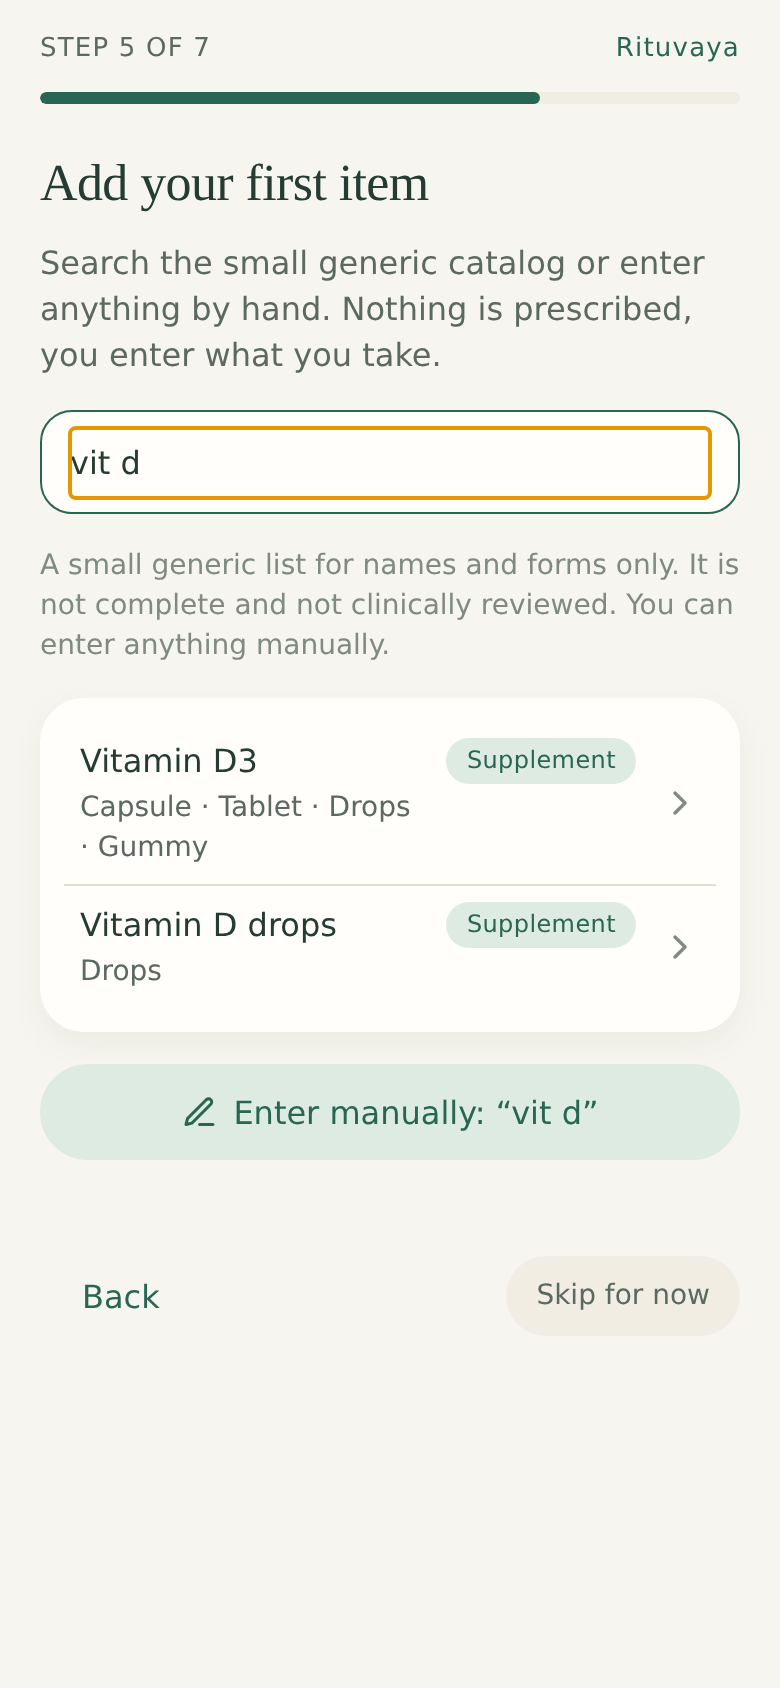
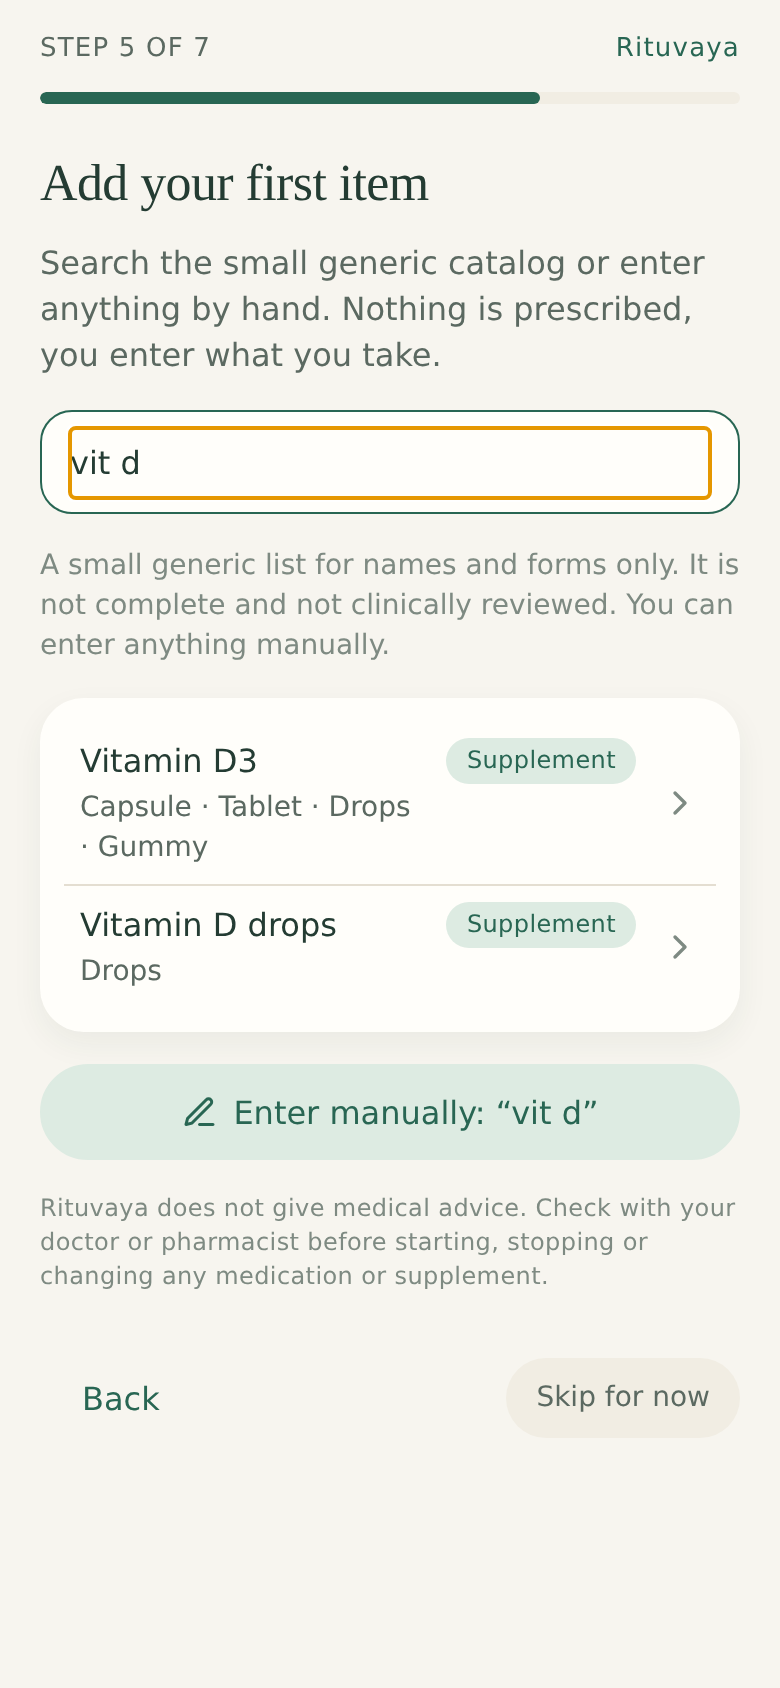
Prepare the app for App Store submission
Privacy manifest: the app target declared no required-reason APIs, and
App Store Connect refuses uploads that use them undeclared. The native
modules ship their own manifests, but React Native's own template
declares three at app level; declare the same through
ios.privacyManifests (UserDefaults CA92.1, file timestamps C617.1,
system boot time 35F9.1), with no tracking and no collected data —
true, since nothing leaves the device. Verified by running prebuild:
PrivacyInfo.xcprivacy is generated and wired into the target.

Medical disclaimer: guideline 1.4.1 asks health apps to remind people to
check with a doctor. The app never prescribed, but never said that
either. Add it in all five languages, shown where the first item is
added during onboarding and in Settings > About. The About text drops
its own "no medical advice" clause so the two don't repeat.

Remove text a reviewer would read as unfinished: the "planned for later"
feature list (features that don't exist are a 2.1 rejection) and the
developer note that translations need review, which non-English users
also saw under the catalog search. Both stay in the README.

Version 1.0.0, build 1. The About card showed 0.1.0 through a hardcoded
fallback; it now shows the version from the build or nothing.

Also restores the apostrophes missing from the French reminder-style
text added earlier.

98 tests pass, tsc clean, walkthrough green with 0 console errors; it
now asserts the disclaimer is on both screens.
[…]

diff --git a/rituvaya/src/i18n/translations/fr.ts b/rituvaya/src/i18n/translations/fr.ts
@@ -4,6 +4,7 @@ export const fr: Translation = {
   app: {
     name: 'Rituvaya',
     tagline: 'Un espace calme pour ce que vous prenez et buvez.',
+    medicalDisclaimer: 'Rituvaya ne donne pas de conseil médical. Demandez l’avis de votre médecin ou de votre pharmacien avant de commencer, d’arrêter ou de modifier un médicament ou un complément.',
   },
   common: {
     next: 'Suivant',
@@ -565,7 +566,7 @@ export const fr: Translation = {
     repeatInterval: 'Minutes entre les rappels',
     reminderMode: 'Style de rappel',
     reminderModes: { standard: 'Standard', insistent: 'Insistant' },
-    reminderModeHints: { standard: 'L alerte à l heure prévue, plus les répétitions réglées ci-dessus.', insistent: 'Une alerte toutes les 2 minutes, jusqu à 10 fois, jusqu à ce que vous marquiez la prise ou l oubli. Comme toute notification, elle reste silencieuse quand le bouton de sonnerie est coupé : ce n est donc pas une alarme.' },
+    reminderModeHints: { standard: 'L’alerte à l’heure prévue, plus les répétitions réglées ci-dessus.', insistent: 'Une alerte toutes les 2 minutes, jusqu’à 10 fois, jusqu’à ce que vous marquiez la dose comme prise ou passée. Comme toute notification, elle reste silencieuse quand le bouton de sonnerie est coupé : ce n’est donc pas une alarme.' },
     snooze: 'Durée du report',
     remindTonight: 'Heure du rappel du soir',
     quietHours: 'Heures calmes',
@@ -604,11 +605,9 @@ export const fr: Translation = {
     demoLoaded: 'Données de démo ajoutées',
     demoRemoved: 'Données de démo retirées',
     about: 'À propos de Rituvaya',
-    aboutBody: 'Rituvaya enregistre les compléments, médicaments et l’eau que vous saisissez et vous rappelle aux heures que vous choisissez. Elle ne donne aucun conseil médical ni de dosage.',
+    aboutBody: 'Rituvaya enregistre les compléments, médicaments et l’eau que vous saisissez et vous rappelle aux heures que vous choisissez.',
     version: 'Version {version}',
-    translationNote: 'Les traductions ont été générées et doivent encore être relues par des locuteurs natifs.',
     restartForLayout: 'Redémarrez l’app pour appliquer le nouveau sens de lecture.',
-    roadmap: 'Prévu plus tard : connexion, sauvegarde cloud, profils familiaux, widgets, apps montre et intégrations santé.',
   },
   notifications: {
     status: {

diff --git a/rituvaya/app/onboarding.tsx b/rituvaya/app/onboarding.tsx
@@ -179,22 +179,31 @@ export default function OnboardingScreen() {
         ) : null}
 
         {stepIndex === 4 ? (
-          settings.onboarding.draft.firstItemId ? (
-            <Card style={{ gap: theme.spacing.sm }}>
-              <Text variant="bodyStrong">{t('item.created')}</Text>
-              <Text variant="small" color="secondary">
-                {t('onboarding.firstItem.skipHint')}
+          <>
+            {settings.onboarding.draft.firstItemId ? (
+              <Card style={{ gap: theme.spacing.sm }}>
+                <Text variant="bodyStrong">{t('item.created')}</Text>
+                <Text variant="small" color="secondary">
+                  {t('onboarding.firstItem.skipHint')}
+                </Text>
+              </Card>
+            ) : (
+              <AddItemFlow
+                onStepChange={setItemStep}
+                onDone={(itemId) => {
+                  void store.updateSettings((s) => ({ ...s, onboarding: { ...s.onboarding, draft: { ...s.onboarding.draft, firstItemId: itemId } } }));
+                  persistStep(5);
+                }}
+              />
+            )}
+            {/* Shown where people first enter what they take, not repeated in every form step
+                (App Store guideline 1.4.1). Also in Settings › About. */}
+            {itemStep === 'search' || settings.onboarding.draft.firstItemId ? (
+              <Text variant="caption" color="muted" testID="medical-disclaimer">
+                {t('app.medicalDisclaimer')}
               </Text>
-            </Card>
-          ) : (
-            <AddItemFlow
-              onStepChange={setItemStep}
-              onDone={(itemId) => {
-                void store.updateSettings((s) => ({ ...s, onboarding: { ...s.onboarding, draft: { ...s.onboarding.draft, firstItemId: itemId } } }));
-                persistStep(5);
-              }}
-            />
-          )
+            ) : null}
+          </>
         ) : null}
 
         {stepIndex === 5 ? (

diff --git a/rituvaya/app/(tabs)/settings.tsx b/rituvaya/app/(tabs)/settings.tsx
@@ -36,7 +36,9 @@ export default function SettingsScreen() {
   const { settings } = snapshot;
   const [picker, setPicker] = useState<Picker>(null);
   const [nameDraft, setNameDraft] = useState(settings.preferredName);
-  const version = Constants.expoConfig?.version ?? '0.1.0';
+  // Embedded at build time on devices; the web preview may not have it, and a
+  // guessed fallback would show a wrong version, so the line is hidden instead.
+  const version = Constants.expoConfig?.version ?? null;
 
   const setLanguage = async (code: Language) => {
     await store.updateSettings((s) => ({ ...s, language: code }));
@@ -97,15 +99,15 @@ export default function SettingsScreen() {
         <Text variant="small" color="secondary">
           {t('settings.aboutBody')}
         </Text>
-        <Text variant="small" color="secondary">
-          {t('settings.roadmap')}
+        {/* App Store guideline 1.4.1: health apps should tell people to check with a doctor. */}
+        <Text variant="smallStrong" color="secondary" testID="medical-disclaimer">
+          {t('app.medicalDisclaimer')}
         </Text>
-        <Text variant="caption" color="muted">
-          {t('settings.translationNote')}
-        </Text>
-        <Text variant="caption" color="muted">
-          {t('settings.version', { version })}
-        </Text>
+        {version ? (
+          <Text variant="caption" color="muted">
+            {t('settings.version', { version })}
+          </Text>
+        ) : null}
       </Card>
 
       <Sheet visible={picker === 'language'} onClose={() => setPicker(null)} title={t('settings.language')} scroll={false}>

diff --git a/rituvaya/src/i18n/translations/ar.ts b/rituvaya/src/i18n/translations/ar.ts
@@ -4,6 +4,7 @@ export const ar: Translation = {
   app: {
     name: 'ريتوفايا',
     tagline: 'مكان هادئ لما تتناوله وتشربه.',
+    medicalDisclaimer: 'لا يقدّم ريتوفايا نصائح طبية. استشر طبيبك أو الصيدلي قبل البدء بأي دواء أو مكمّل غذائي أو إيقافه أو تغييره.',
   },
   common: {
     next: 'التالي',
@@ -604,11 +605,9 @@ export const ar: Translation = {
     demoLoaded: 'أُضيفت البيانات التجريبية',
     demoRemoved: 'أُزيلت البيانات التجريبية',
     about: 'حول ريتوفايا',
-    aboutBody: 'يسجّل ريتوفايا المكمّلات والأدوية والماء التي تدخلها ويذكّرك في الأوقات التي تختارها. لا يقدّم نصائح طبية أو جرعات.',
+    aboutBody: 'يسجّل ريتوفايا المكمّلات والأدوية والماء التي تدخلها ويذكّرك في الأوقات التي تختارها.',
     version: 'الإصدار {version}',
-    translationNote: 'الترجمات مولَّدة آليًا وما زالت بحاجة إلى مراجعة متحدثين أصليين.',
     restartForLayout: 'أعد تشغيل التطبيق لتطبيق اتجاه العرض الجديد.',
-    roadmap: 'مخطط لاحقًا: تسجيل الدخول، النسخ الاحتياطي السحابي، ملفات العائلة، الأدوات المصغرة، تطبيقات الساعة، وتكاملات الصحة.',
   },
   notifications: {
     status: {

diff --git a/rituvaya/src/i18n/translations/de.ts b/rituvaya/src/i18n/translations/de.ts
@@ -4,6 +4,7 @@ export const de: Translation = {
   app: {
     name: 'Rituvaya',
     tagline: 'Ein ruhiger Ort für das, was du einnimmst und trinkst.',
+    medicalDisclaimer: 'Rituvaya gibt keinen medizinischen Rat. Sprich mit deiner Ärztin, deinem Arzt oder deiner Apotheke, bevor du ein Medikament oder Nahrungsergänzungsmittel beginnst, absetzt oder änderst.',
   },
   common: {
     next: 'Weiter',
@@ -604,11 +605,9 @@ export const de: Translation = {
     demoLoaded: 'Demodaten hinzugefügt',
     demoRemoved: 'Demodaten entfernt',
     about: 'Über Rituvaya',
-    aboutBody: 'Rituvaya erfasst die Nahrungsergänzungen, Medikamente und das Wasser, die du einträgst, und erinnert dich zu den von dir gewählten Zeiten. Es gibt keine medizinische oder Dosierungsberatung.',
+    aboutBody: 'Rituvaya erfasst die Nahrungsergänzungen, Medikamente und das Wasser, die du einträgst, und erinnert dich zu den von dir gewählten Zeiten.',
     version: 'Version {version}',
-    translationNote: 'Die Übersetzungen wurden generiert und müssen noch von Muttersprachlern geprüft werden.',
     restartForLayout: 'Starte die App neu, um die neue Leserichtung zu übernehmen.',
-    roadmap: 'Für später geplant: Anmeldung, Cloud-Sicherung, Familienprofile, Widgets, Uhren-Apps und Gesundheitsintegrationen.',
   },
   notifications: {
     status: {

diff --git a/rituvaya/src/i18n/translations/es.ts b/rituvaya/src/i18n/translations/es.ts
@@ -4,6 +4,7 @@ export const es: Translation = {
   app: {
     name: 'Rituvaya',
     tagline: 'Un lugar tranquilo para lo que tomas y bebes.',
+    medicalDisclaimer: 'Rituvaya no ofrece consejo médico. Consulta a tu médico o farmacéutico antes de empezar, dejar o cambiar cualquier medicamento o suplemento.',
   },
   common: {
     next: 'Siguiente',
@@ -604,11 +605,9 @@ export const es: Translation = {
     demoLoaded: 'Datos de demostración añadidos',
     demoRemoved: 'Datos de demostración eliminados',
     about: 'Acerca de Rituvaya',
-    aboutBody: 'Rituvaya registra los suplementos, medicamentos y agua que introduces y te avisa a las horas que eliges. No ofrece consejo médico ni de dosificación.',
+    aboutBody: 'Rituvaya registra los suplementos, medicamentos y agua que introduces y te avisa a las horas que eliges.',
     version: 'Versión {version}',
-    translationNote: 'Las traducciones se generaron automáticamente y aún necesitan revisión de hablantes nativos.',
     restartForLayout: 'Reinicia la app para aplicar la nueva dirección del diseño.',
-    roadmap: 'Previsto para más adelante: inicio de sesión, copia en la nube, perfiles familiares, widgets, apps de reloj e integraciones de salud.',
   },
   notifications: {
     status: {

diff --git a/rituvaya/src/i18n/translations/en.ts b/rituvaya/src/i18n/translations/en.ts
@@ -6,6 +6,7 @@ export const en = {
   app: {
     name: 'Rituvaya',
     tagline: 'A calm place for what you take and drink.',
+    medicalDisclaimer: 'Rituvaya does not give medical advice. Check with your doctor or pharmacist before starting, stopping or changing any medication or supplement.',
   },
   common: {
     next: 'Next',
@@ -606,11 +607,9 @@ export const en = {
     demoLoaded: 'Demo data added',
     demoRemoved: 'Demo data removed',
     about: 'About Rituvaya',
-    aboutBody: 'Rituvaya records the supplements, medications and water you enter, and reminds you at the times you choose. It does not give medical or dosing advice.',
+    aboutBody: 'Rituvaya records the supplements, medications and water you enter, and reminds you at the times you choose.',
     version: 'Version {version}',
-    translationNote: 'Translations were generated and still need native-speaker review.',
     restartForLayout: 'Restart the app to apply the new layout direction.',
-    roadmap: 'Planned for later: sign-in, cloud backup, family profiles, widgets, watch apps and health integrations.',
   },
   notifications: {
     status: {

diff --git a/rituvaya/scripts/screenshots.js b/rituvaya/scripts/screenshots.js
@@ -93,6 +93,10 @@ async function main() {
   await click('Next');
   await page.getByPlaceholder('e.g. Vitamin D, Magnesium').fill('vit d');
   await shot('05-onboarding-catalog');
+  // App Store guideline 1.4.1: the doctor reminder has to be where people enter what they take.
+  if (!(await page.getByTestId('medical-disclaimer').first().isVisible().catch(() => false))) {
+    errors.push('onboarding: medical disclaimer missing on the first-item step');
+  }
   await click('Vitamin D3');
   await shot('06-onboarding-item-details');
   await click('Next');
@@ -109,6 +113,10 @@ async function main() {
   // Load demo data for richer screens.
   await click('Settings');
   await shot('12-settings');
+  const disclaimer = page.getByTestId('medical-disclaimer').first();
+  await disclaimer.scrollIntoViewIfNeeded().catch(() => undefined);
+  if (!(await disclaimer.isVisible().catch(() => false))) errors.push('settings: medical disclaimer missing from About');
+  await shot('12b-settings-about');
   await click('Export my data');
   await click('Load demo data');
   await page.waitForTimeout(1500);

diff --git a/rituvaya/src/features/item/CatalogSearch.tsx b/rituvaya/src/features/item/CatalogSearch.tsx
@@ -19,7 +19,7 @@ export interface CatalogSearchProps {
 /** Search the small generic catalog, or continue with a manual entry using the typed name. */
 export function CatalogSearch({ onPick, onManual }: CatalogSearchProps) {
   const theme = useTheme();
-  const { t, language } = useI18n();
+  const { t } = useI18n();
   const [query, setQuery] = useState('');
   const results = useMemo(() => searchCatalog(query, 8), [query]);
   return (
@@ -48,9 +48,6 @@ export function CatalogSearch({ onPick, onManual }: CatalogSearchProps) {
         </Card>
       ) : null}
       <Button label={query.trim() ? `${t('item.manualEntry')}: “${query.trim()}”` : t('item.manualEntry')} variant="secondary" icon="edit-3" onPress={() => onManual(query)} full />
-      <Text variant="caption" color="muted" style={{ opacity: 0.8 }}>
-        {language === 'en' ? '' : t('settings.translationNote')}
-      </Text>
     </View>
   );
 }

diff --git a/rituvaya/README.md b/rituvaya/README.md
@@ -94,7 +94,10 @@ Upload the `dist/` folder to any static host (Netlify drop, Vercel, GitHub Pages
 
 ## Signing and identifiers
 
-- Bundle identifier / package: `com.rituvaya.app` (change in `app.json` before store submission).
+- Bundle identifier / package: `com.rituvaya.app` (change in `app.json` before store submission — it can never change once the app is published).
+- **Version and build number.** `expo.version` is the public version (1.0.0); `ios.buildNumber` must go up by one for **every** upload to App Store Connect, including TestFlight-only builds, or the upload is rejected. Settings › About reads the version from the build, so it can't drift from what's shipped.
+- **Privacy manifest.** `ios.privacyManifests` in `app.json` declares the required-reason APIs React Native uses (UserDefaults `CA92.1`, file timestamps `C617.1`, system boot time `35F9.1`), no tracking and no collected data; prebuild writes it to `PrivacyInfo.xcprivacy`. "No collected data" is true only while nothing leaves the device — adding analytics, crash reporting or sync means updating this *and* the App Privacy answers in App Store Connect.
+- **Medical disclaimer.** App Store guideline 1.4.1 asks health apps to remind people to check with a doctor. `app.medicalDisclaimer` is shown on the onboarding step where the first item is added and in Settings › About. Keep it in both places.
 - The app uses local notifications only, so `plugins/withLocalOnlyNotifications.js` strips the `aps-environment` entitlement that `expo-notifications` adds by default. Without this, a free Apple ID cannot sign a build: personal teams do not support the Push Notifications capability. Remove the plugin if remote push is ever added.
 - **UIScene life cycle.** iOS 26 and later assert at launch (`EXC_BREAKPOINT` in `UIApplicationEvaluateRuntimeIssueForNoSceneLifecycleAdoption`) unless the app adopts it, killing the app before any JavaScript runs. Expo SDK 57 ships `ExpoAppSceneDelegate` for this but its template does not wire it, so two pieces here do: `ios.infoPlist.UIApplicationSceneManifest` in `app.json` names the delegate, and `plugins/withSceneLifecycle.js` patches the generated `AppDelegate.swift` to declare `ExpoReactNativeFactoryProvider` conformance and stop creating the window (the scene delegate owns it). Both are needed — the manifest alone makes the scene delegate `fatalError` on connect. Drop them if a later Expo template adopts scenes itself; the plugin throws rather than silently no-op when the template changes.
 - Icons, splash, notification icon and the two `.wav` sounds are generated from `scripts/generate-icons.js` and `scripts/generate-sounds.js` and committed under `assets/`.
